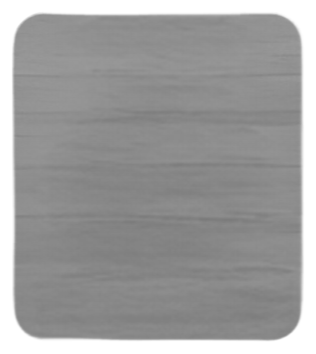
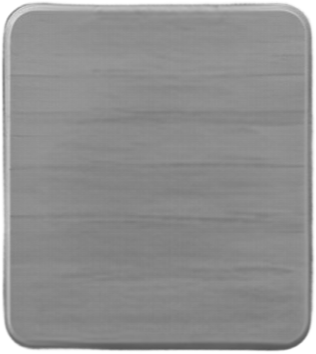
fix(beads): WXG-T-612 二轮 稿面大更新对齐（三态格底/星重导直用 + 星 gap 3）

Changed region(s): [[0.0, 0.0, 0.9968, 0.9944]]

diff --git a/games/beads/cocos/assets/scripts/game/config/tuning/level-select.ts b/games/beads/cocos/assets/scripts/game/config/tuning/level-select.ts
@@ -20,6 +20,15 @@
  * 稿 `176:67 TEXT` 烘死「1」，九格复用会写死，⛔ 不切字）；`176:21 grid-image` 69×76
  * （格内图案槽：锁定 = 稿面锁图案位图，解锁 = 程序化珠拼，三星隐藏）；
  * 关卡名字按用户令改木牌中轴居中（稿面 278 左锚 K-053 留档）。
+ *
+ * `[WXG-T-612·二轮]` 稿面 2026-11-11T02:21Z 大更新（用户令「查找 grid-button/grid-star，
+ * 看是否要重新导出资源，读取三态实现参数」）：`grid-button` 组件集三态 fill 素材**整体换新**
+ * ——浅原木纹、无矩形边框、cornerRadius 14，Highlight 的描边与内阴影已被设计者删除
+ * ⇒ 三态 = 同 imageRef `60229b73` + 纯滤镜差：Normal 无滤镜 / Highlight
+ * `exposure+0.15, contrast+0.03, saturation+0.15, highlights+0.10` / Disabled
+ * `exposure−0.10, contrast−0.015, saturation−1`。三态位图重导**直用**（⛔ 不再裁框，T-612 一轮
+ * 的腐蚀裁框随旧素材一并退场，K-053）；星换 `214:98 grid-star` 新组件集（素材重导 64×60）+
+ * gap 3；brand / lockImage / grid-image 几何逐字未变（imageLeft 44 / imageTopDown 49 / 65×35）。
  */
 export const LEVEL_SELECT_GEO = {
     /** 板标题「选关」：与详情标题同槽（中心 380,278）。 */
@@ -57,8 +66,13 @@ export const LEVEL_SELECT_GEO = {
          * ⇒ y_up 13..43、中心 **28**（`T-607` 文字档 14 偏下，K-053 旧值留档）。
          */
         starBandY: 28,
-        /** `[WXG-T-610]` 三枚星位图 32×30，净距 9，居中贴格底。 */
-        starW: 32, starH: 30, starGap: 9,
+        /**
+         * `[WXG-T-610]` 三枚星位图 32×30，居中贴格底。
+         * `[WXG-T-612·二轮]` 稿面 `214:98 grid-star` 新组件集（旧 `187:37` 已删）+ 九宫格重排
+         * `188:*`：星实例交叉实测（grid-1 / grid-9）**pitch 35 ⇒ gap 3**（旧 9 为换稿前口径，K-053）；
+         * 实例 32×30 口径不变（素材导出 64×60 @2x），bandY 28 不变。
+         */
+        starW: 32, starH: 30, starGap: 3,
         /**
          * `[WXG-T-611]` 编号牌背景（稿 `182:75 grid-brand` → `176:22`）：65×35 贴格**视觉顶**
          * （稿面 yDown 与格同 414 ⇒ 顶对齐）。数字仍 VM 程序化（稿 `176:67` 烘死「1」）。

diff --git a/games/beads/src/config/tuning/level-select.ts b/games/beads/src/config/tuning/level-select.ts
@@ -20,6 +20,15 @@
  * 稿 `176:67 TEXT` 烘死「1」，九格复用会写死，⛔ 不切字）；`176:21 grid-image` 69×76
  * （格内图案槽：锁定 = 稿面锁图案位图，解锁 = 程序化珠拼，三星隐藏）；
  * 关卡名字按用户令改木牌中轴居中（稿面 278 左锚 K-053 留档）。
+ *
+ * `[WXG-T-612·二轮]` 稿面 2026-11-11T02:21Z 大更新（用户令「查找 grid-button/grid-star，
+ * 看是否要重新导出资源，读取三态实现参数」）：`grid-button` 组件集三态 fill 素材**整体换新**
+ * ——浅原木纹、无矩形边框、cornerRadius 14，Highlight 的描边与内阴影已被设计者删除
+ * ⇒ 三态 = 同 imageRef `60229b73` + 纯滤镜差：Normal 无滤镜 / Highlight
+ * `exposure+0.15, contrast+0.03, saturation+0.15, highlights+0.10` / Disabled
+ * `exposure−0.10, contrast−0.015, saturation−1`。三态位图重导**直用**（⛔ 不再裁框，T-612 一轮
+ * 的腐蚀裁框随旧素材一并退场，K-053）；星换 `214:98 grid-star` 新组件集（素材重导 64×60）+
+ * gap 3；brand / lockImage / grid-image 几何逐字未变（imageLeft 44 / imageTopDown 49 / 65×35）。
  */
 export const LEVEL_SELECT_GEO = {
     /** 板标题「选关」：与详情标题同槽（中心 380,278）。 */
@@ -57,8 +66,13 @@ export const LEVEL_SELECT_GEO = {
          * ⇒ y_up 13..43、中心 **28**（`T-607` 文字档 14 偏下，K-053 旧值留档）。
          */
         starBandY: 28,
-        /** `[WXG-T-610]` 三枚星位图 32×30，净距 9，居中贴格底。 */
-        starW: 32, starH: 30, starGap: 9,
+        /**
+         * `[WXG-T-610]` 三枚星位图 32×30，居中贴格底。
+         * `[WXG-T-612·二轮]` 稿面 `214:98 grid-star` 新组件集（旧 `187:37` 已删）+ 九宫格重排
+         * `188:*`：星实例交叉实测（grid-1 / grid-9）**pitch 35 ⇒ gap 3**（旧 9 为换稿前口径，K-053）；
+         * 实例 32×30 口径不变（素材导出 64×60 @2x），bandY 28 不变。
+         */
+        starW: 32, starH: 30, starGap: 3,
         /**
          * `[WXG-T-611]` 编号牌背景（稿 `182:75 grid-brand` → `176:22`）：65×35 贴格**视觉顶**
          * （稿面 yDown 与格同 414 ⇒ 顶对齐）。数字仍 VM 程序化（稿 `176:67` 烘死「1」）。

diff --git a/production/TASKS.md b/production/TASKS.md
@@ -31,7 +31,7 @@
 | WXG-T-609 | 资产·关卡详情橱窗面板从 Figma `192:42` 获取并接入 | 主理人(CodeBuddy)·beads 美术/工程轨 | ✅ **完成（2026-11-10 · 用户令「关卡详情页缺少橱窗面板资源，请从 figma 上获取添加」）**。**根因**：`WXG-T-608` 新版 `95:116` 木牌把旧版烘在牌内的空橱窗拆成独立节点，稿面 `92:36` 里 **`192:42 橱窗面板`** RECTANGLE 469×638 @画布(80,398) 一直存在但从未导出（T-604 只入 4 件）。**获取**：`figma.mjs img --ids 192:42 --scale 2` ⇒ `938×1276` RGBA / 491.4 KiB，玻璃展示柜 + 射灯 + 圆台。**落码**：`LEVEL_DETAIL_GEO.showcase`（帧内 143,376 / 469×638）+ `LEVEL_DETAIL_TEXTURES.showcase`；`drawLevelDetailPage` 在木牌之后、缩略 / 星级 / 道具之前叠一条 blit（稿层序），缺图 ⇒ 不画零回归；harness `/detail-assets/` 与 carrier 注册。**资产**：设计源 `ui_detail_showcase@2x.png`（503,150 B）+ Cocos 投放件（RGBA 208,201 B，保留 68% 半透明玻璃像素、alpha 与稿面完全相同、RGB mean 2.547）；⛔ 不用 P 单透明索引（会丢玻璃）。**判据**：新增 `level-detail-showcase.test.ts` 2 例（几何同源 / 缺图零 blit）；全量 **1439 passed / 2 skipped**；金样本 11 态零影响（`level-detail` 不在覆盖态）、`verify` PASS 23 / FAIL 0。⚠ 新投放件 `.meta` 待 Cocos 编辑器签发（L1 不伪造），真机暂不叠面板 | 见详情 |
 | WXG-T-610 | UI·选关弹窗三件稿面补件（九宫格样式 / 关闭按钮 / 关卡名字控件） | 主理人(CodeBuddy)·beads 美术/工程轨 | ✅ **完成（2026-11-10 · 用户指出「Figma 选关弹窗 page 中九宫格样式没有实现，关闭按钮没有实现，关卡名字控件没有实现」）**。**稿面定位**（重取 `159:3` / `159:5` 子表）：`164:63 九宫格背板` 506×597 @(122,401)、画布外备料 `183:38/41/44` 三态格底（橙 / 亮金 / 灰）+ `187:39/41` 双星；`160:48 关闭按钮` 301×105 @(225,1028)；`159:10 关卡名字` TEXT 84×34 @(278,364) SOLID `#1A1D3F`。**落码**：7 枚 Figma @2x 切图入 `final/assets/detail/` + Cocos RGBA 投放件；`LEVEL_SELECT_GEO` 增 `tray`/`closeBtn`/`name`/`cellArt.star*`；`drawLevelSelectCell` 三态格底 + 位图三星（降级腿保留文字星 / 程序化木托盘 / 当前关描边）；`drawLevelsView` 叠背板 + 按稿名字 + 底部木质关闭钮（右上 38² 凹槽 ✕ 退场）；`levelsLayout` 关闭热区迁稿面框（绘制命中同源）；harness / carrier 注册。**判据**：几何 / 样式断言按 K-053 迁移，新增位图腿两例（三态分布 / 27 星 / 背板 / 关闭钮）；全量 **1439 passed / 2 skipped**；金样本 `level-select` 两态 sha 变、干净锚重抓，其余九态逐字未动；`verify` PASS 23 / FAIL 0。⚠ 7 枚新投放件 `.meta` 待编辑器签发（L1 不伪造），真机暂走降级腿 | 见详情 |
 | WXG-T-611 | UI·选关页六项修正（名字居中/高亮无框/grid-brand/锁格图案/去锁徽章） | 主理人(CodeBuddy)·beads 美术/工程轨 | ✅ **完成（2026-11-11 · 用户六项令：名字居中显示 / 高亮态就是高亮图不加框 / 关数面板读 grid-brand 文字与背景 / 锁关展示 grid-image 图案并隐藏三星 / 解锁格 grid-image 展示程序化图案 / 单独锁图案去掉）**。**稿面定位**：`176:22 grid-brand background` 65×35（贴格视觉顶）+ `176:21 grid-image` 69×76（格内 x=44 / 距视觉顶 49 = 图案槽）。**落码**：2 枚 @2x 切图（130×70 / 138×152）+ `ship()` RGBA 投放件；`LEVEL_SELECT_TEXTURES` 增 `brand` / `lockImage`；编号牌背景读稿面资源（数字仍 VM 程序化——稿 `176:67` 烘死「1」，九格复用会写死）；锁定格（含越界槽）= 图案槽 blit 锁图 + **三星隐藏**；解锁格 = `drawLevelThumb` 珠拼落槽位（area=69）；名字改木牌中轴 380 居中；降级腿当前关改亮金内窗（`plateSubInk`）⇒ 黄铜描边退场；`drawWallLockBadge` 选关调用两处删除（走马灯/旧墙腿保留）。**判据**：六个测试文件按 K-053 迁移；全量 **1440 passed / 2 skipped**；金样本 `level-select` 两态重抓；`verify` PASS 23 / FAIL 0。⚠ 2 枚新投放件 `.meta` 待编辑器签发（L1 不伪造） | 见详情 |
-| WXG-T-612 | UI·三态格底裁框 + 右上✕回归 + 两弹框背景/✕绘制共用 | 主理人(CodeBuddy)·beads 美术/工程轨 | ✅ **完成（2026-11-11 · 用户三令：①「背景板有三态展示 normal highlight disabled，已经不需要那个矩形边框，应该删除」（追问方法后裁框）②「选关面板右上角有个叉按钮需要加上」③「选关和关卡详情弹框关于背景框绘制和右上角叉按钮绘制需要共用逻辑」）**。**外框归因**：稿面三态格底 = **同一 IMAGE ref**（`60229b73…`）+ Figma 滤镜差（高亮 exposure+0.15）⇒ 框烘在图里且被提亮成金棕；角区另有独立亮角残片。**裁框**：Figma 重导三态原图 → alpha 通道 MinFilter(21) 形态学腐蚀内缩 10px（直边框带/弧带亮边/角残片统一清除，圆角自然）+ 2px 直边羽化 → 正本覆盖 + `ship()` 投放件重出（normal 29.6K / current 25.1K / locked 13.1K，体积反降）；blit 命令流不变 ⇒ **金样本零影响**。**✕ 回归**：`levelsLayout` 恢复右上 ✕ 热区（`LEVEL_DETAIL_GEO.close` 同槽 + `dialogShiftY`，88²）⇒ `close-levels` 双出口（底部木质钮保留）；`drawLevelsView` 调共用 `drawCloseInset`（`vm.closePressed` 按下态）。**共用**：抽 `meta-widgets::drawModalPlate`（遮罩 + 木牌 blit/纸面板回退），选关/详情两页各一行替换（命令流逐字不变）。**判据**：`arc-level-select-page` 增 ✕ 命中 (622,1121) + 双出口断言；全量 **1440 passed / 2 skipped**；金样本 `level-select` 两态重抓（+7 ✕ 命令）；`verify` PASS 23 / FAIL 0。⚠ 3 枚重出投放件 `.meta` 沿用在册（尺寸不变无需重签） | 见详情 |
+| WXG-T-612 | UI·三态格底裁框 + 右上✕回归 + 两弹框背景/✕绘制共用 | 主理人(CodeBuddy)·beads 美术/工程轨 | ✅ **完成（2026-11-11 · 用户三令：①「背景板有三态展示 normal highlight disabled，已经不需要那个矩形边框，应该删除」（追问方法后裁框）②「选关面板右上角有个叉按钮需要加上」③「选关和关卡详情弹框关于背景框绘制和右上角叉按钮绘制需要共用逻辑」）**。**外框归因**：稿面三态格底 = **同一 IMAGE ref**（`60229b73…`）+ Figma 滤镜差（高亮 exposure+0.15）⇒ 框烘在图里且被提亮成金棕；角区另有独立亮角残片。**裁框**：Figma 重导三态原图 → alpha 通道 MinFilter(21) 形态学腐蚀内缩 10px（直边框带/弧带亮边/角残片统一清除，圆角自然）+ 2px 直边羽化 → 正本覆盖 + `ship()` 投放件重出（normal 29.6K / current 25.1K / locked 13.1K，体积反降）；blit 命令流不变 ⇒ **金样本零影响**。**✕ 回归**：`levelsLayout` 恢复右上 ✕ 热区（`LEVEL_DETAIL_GEO.close` 同槽 + `dialogShiftY`，88²）⇒ `close-levels` 双出口（底部木质钮保留）；`drawLevelsView` 调共用 `drawCloseInset`（`vm.closePressed` 按下态）。**共用**：抽 `meta-widgets::drawModalPlate`（遮罩 + 木牌 blit/纸面板回退），选关/详情两页各一行替换（命令流逐字不变）。**判据**：`arc-level-select-page` 增 ✕ 命中 (622,1121) + 双出口断言；全量 **1440 passed / 2 skipped**；金样本 `level-select` 两态重抓（+7 ✕ 命令）；`verify` PASS 23 / FAIL 0。⚠ 3 枚重出投放件 `.meta` 沿用在册（尺寸不变无需重签）。**二轮（2026-11-11 · 用户判「grid 背景板还是不对」+ 令查 `grid-button`/`grid-star` 重导与三态参数）**：稿面 02:21Z 大更新——`grid-button` 三态 fill 素材整体换新（浅原木纹**无框**圆角 14、Highlight 描边/内阴影已删 ⇒ 三态 = 同 imageRef + 纯滤镜差）⇒ 三态位图重导直用（一轮腐蚀裁框随旧素材退场）；星换 `214:98` 新组件集（64×60）+ **gap 9→3**（pitch 35 交叉实测）；brand/grid-image/lockImage 几何逐字未变；全量 **1442 passed**；金样本两态重抓（星位漂移） | 见详情 |
 | WXG-T-605 | 工具链·MiniMax-H3 文生视频工作流（内网 ComfyUI） | 主理人(Qoder)·工具链 | ✅ **完成（2026-11-09 · 用户令「本地配置 minimax h3 的大模型服务，制定文生视频工作流并验证」）**。**环境**：`192.168.1.16:8188`（Windows · RTX 2080 Ti 11GB · ComfyUI 0.40.0），已有 H3 GGUF 主干 / qwen3vl-32b 编码器 / 视频+音频 VAE / 8-step turbo LoRA。**交付**：`tools/scripts/minimax-h3-t2v.py`（标准库：probe / dry-run / 提交 / 轮询 / 下载 / FLAC+MP4 本地合轨；`--loader safetensors` 可切官方 int8）+ `tools/scripts/README-minimax-h3.md`。**验证**：链路 7 轮全通（116–498s/轮），但第三方 `MiniMax-H3-FL2VA-Pruned-Q3_K_M.gguf` 输出纯黑 + 饱和音频；已排除 VAE（往返 7485 色 / std 73）、文本编码器（GPU/CPU）、注意力后端、steps、分辨率、提示词。**阻塞**：换 Comfy-Org 官方 `minimax_h3_fl2va_pruned_int8_convrot.safetensors`（~19.5GB，需用户在 Windows 侧下载）；若仍黑则为 2080Ti 无原生 bf16 的精度墙。 | 见详情 |
 | WXG-T-604 | UI·关卡详情弹窗按 Figma 92:36 重排 + 单源规格 | 主理人(Trae)·beads UI轨 | ✅ **完成（2026-11-08 · 用户令「从 figma 读取关卡详情页 Page 的所有数据，重新整理关卡详情页 UI 设计」）**。**稿面全量回读**：Figma `PBIK3RbfGlfzFsAnd97ZsP` 页 `84:36` 帧 `92:36` 22KB 节点树 + 7 件 @2x 切图；复核重取一遍零漂移。**旧版 → 稿面**：纸面板 600×720 → 木牌 581×1044@(89,166)；道具 3×84 净距 36→9、角标从右下圆点改**右上 24² r8 贴边**；文字星 `★★☆` → 位图星 3×58×60；双钮行 → 单「开始」326×154（出口另补，见关闭交互）。**落码**：新 `config/tuning/level-detail.ts`（几何 + 纹理 id 单源，y 下锚点）、`meta-level-detail-page.ts` 自持版式（退 `panelPage`）、`meta-layout` 热区、shell 投影 `detailChapterTitle`。**资产**：4 件 Figma 切图入 `final/assets/detail/`（911+284+9+9 KB）+ Cocos 量化投放件 147 KB（主包 3.0 MB，红线 4 MB）。**核对揪出**：时限文字按 22 档居中会压第三枚星 ⇒ 改稿面左缘锚 x=482。**阴影回读（11-09 用户指出）**：`figma.mjs` 的 `slim()` 漏留 `effects` ⇒ 补留后取回 `95:59` 两枚内阴影 + 投影（`#5A2F0D` α0.80 +9,+7 blur3）；**最小契约** `TextCommand.shadow` + 三处渲染器（Canvas 原生含 blur / Cocos 双 Label / SVG 双 text），内阴影登记不实现（规格 §4.1）。**关闭交互（11-09 用户令）**：删「返回」，改木牌右上角框内 **38² 深实底凹槽**（3px 框槽、无内壁阴影、米白 ✕，零位图，刚好盖住角铆钉）；点牌外空白用四条贴边带关闭（牌内空白不关）；`close-detail` / `dismiss-detail` 与 `back` 同语义。**取证**：headless Chrome 真页面截图（`temp/detail-shot/detail-live.png`）目视通过；单测 6/6（流程 + 几何不变式 + 回退/位图双绘制腿）；`pnpm run verify` **PASS 23 / FAIL 0 / SKIP 0**；`check:links` OK。⚠ 未闭：Cocos 编辑器导入四枚 PNG 生成 `.meta`（无可写编辑器产物） | 见详情 · kb:sync 沉淀统计 新增0/修改0/激活0/归档0 |
 | WXG-T-599 | 美术·木牌字号按稿归一缩档（34 / 22 / 胶囊 27） | 主理人(CodeBuddy)·美术/UI轨 | ✅ **完成（2026-11-07 · 用户令「相比设计稿，现在字号有点大」→ 选甲「两行都缩」）**。**根因是量尺**：上一批（`WXG-T-597`）拿「稿像素」直接对「设计像素」，没做同尺归一。本批以胶囊宽为尺（稿 172 ↔ 线上 130 ⇒ 1.32 倍；铆钉净宽 328 ↔ 245 独立同得 1.34）归一后：关名墨高稿 39 ≈ **29.5 设计 px**，而 40px 粗体墨高 ≈35 ⇒ 比稿大 **19%**；次行墨稿 23 ≈ 17.4，而 28px 粗体墨高 ≈24.6 ⇒ 大 **41%**；胶囊 33 vs 稿 25 ⇒ 厚 **32%**。**落码**：关名 40→**34**（新增字型值，`UI_FONT.plateTitle`）、次行 28→**22**（**新增令牌 `UI_FONT.plateSub`** —— 不复用 `labelBold`，那档是资源条数值专用）、胶囊 `130×33`→**`130×27`**（`22×0.88/0.72 = 26.9`，实得 0.72 与稿一致）。**「第二行不得低于 28」的地板同时松绑**：该地板的原始理由只是「22px 落普通文本档需 4.5:1，而旧木牌色只有 3.60:1」；换令牌后次行墨压胶囊 = **4.61:1** ✓，22px 也过 4.5 ⇒ 地板不再挡路（关名 34 仍属大字号档，门 3:1，实得 5.38 ✓）。层级 1.43→**1.55**（稿 1.70）。**验证**：`menu-plate-title` 守卫改守「次行 = plateSub 22 粗、胶囊 h 27、关名 = plateTitle 34」，并发觉旧守卫那句「⛔ 回退 22 档」正是本轮要走的档 ⇒ 改为守「⛔ 退回 labelBold 28（会把牌撑大）」。视觉变更登记见 `ui-architecture-beads §12` | 见详情 |

diff --git a/ctx/BUDGET.md b/ctx/BUDGET.md
@@ -22,12 +22,12 @@
 
 | # | 文件 | tokens | 行数 | tier |
 |---:|---|---:|---:|:--:|
-| 1 | `production/TASKS-DETAIL.md` | 264633 | 9332 | normal |
+| 1 | `production/TASKS-DETAIL.md` | 265537 | 9347 | normal |
 | 2 | `games/beads/design/gdd/powerups-v2.md` | 154839 | 2359 | normal |
 | 3 | `games/beads/design/art/specs/assets-spec.md` | 121820 | 2109 | normal |
 | 4 | `production/qa/beads/g4-regression-report.md` | 86807 | 2201 | normal |
 | 5 | `games/beads/design/ux/ux-spec.md` | 62587 | 590 | normal |
-| 6 | `production/TASKS.md` | 60459 | 219 | hot |
+| 6 | `production/TASKS.md` | 60637 | 219 | hot |
 | 7 | `games/beads/design/gdd/systems-index-changelog.md` | 53260 | 109 | normal |
 | 8 | `docs/architecture/adr/ADR-0030-beads-cocos-production-blit-carrier.md` | 45150 | 1307 | normal |
 | 9 | `games/beads/design/proposals/bead-visual-style-spec.md` | 43650 | 1206 | normal |
@@ -37,7 +37,7 @@
 | 13 | `games/beads/design/art/proposals/ui-style-redesign/menu-architecture.md` | 38455 | 996 | normal |
 | 14 | `games/beads/design/art/specs/art-bible.md` | 38368 | 530 | normal |
 | 15 | `games/beads/design/art/specs/accessibility.md` | 37140 | 201 | normal |
-| 16 | `docs/architecture/ui-architecture-beads.md` | 30868 | 292 | normal |
+| 16 | `docs/architecture/ui-architecture-beads.md` | 31168 | 294 | normal |
 | 17 | `memory/2026-10-04.md` | 28255 | 930 | normal |
 | 18 | `games/beads/design/gdd/save-progress.md` | 26135 | 305 | normal |
 | 19 | `games/beads/design/proposals/star-economy-and-retention.md` | 22195 | 763 | normal |
@@ -49,7 +49,7 @@
 
 | 文件 | tokens | 类别 · 上限 | 处置 |
 |---|---:|---:|:--:|
-| `production/TASKS-DETAIL.md` | 264633 | tasksDetail · 205000 | 见 `ctx/budget-exempt.json`（无豁免则 ❌ 需报告主理人） |
+| `production/TASKS-DETAIL.md` | 265537 | tasksDetail · 205000 | 见 `ctx/budget-exempt.json`（无豁免则 ❌ 需报告主理人） |
 | `games/beads/design/gdd/powerups-v2.md` | 154839 | spec · 8000 | 见 `ctx/budget-exempt.json`（无豁免则 ❌ 需报告主理人） |
 | `games/beads/design/art/specs/assets-spec.md` | 121820 | spec · 8000 | 见 `ctx/budget-exempt.json`（无豁免则 ❌ 需报告主理人） |
 | `production/qa/beads/g4-regression-report.md` | 86807 | ledger · 16000 | 见 `ctx/budget-exempt.json`（无豁免则 ❌ 需报告主理人） |
@@ -63,7 +63,7 @@
 | `games/beads/design/art/proposals/ui-style-redesign/menu-architecture.md` | 38455 | spec · 8000 | 见 `ctx/budget-exempt.json`（无豁免则 ❌ 需报告主理人） |
 | `games/beads/design/art/specs/art-bible.md` | 38368 | spec · 8000 | 见 `ctx/budget-exempt.json`（无豁免则 ❌ 需报告主理人） |
 | `games/beads/design/art/specs/accessibility.md` | 37140 | spec · 8000 | 见 `ctx/budget-exempt.json`（无豁免则 ❌ 需报告主理人） |
-| `docs/architecture/ui-architecture-beads.md` | 30868 | spec · 8000 | 见 `ctx/budget-exempt.json`（无豁免则 ❌ 需报告主理人） |
+| `docs/architecture/ui-architecture-beads.md` | 31168 | spec · 8000 | 见 `ctx/budget-exempt.json`（无豁免则 ❌ 需报告主理人） |
 | `memory/2026-10-04.md` | 28255 | spec · 8000 | 见 `ctx/budget-exempt.json`（无豁免则 ❌ 需报告主理人） |
 | `games/beads/design/gdd/save-progress.md` | 26135 | spec · 8000 | 见 `ctx/budget-exempt.json`（无豁免则 ❌ 需报告主理人） |
 | `games/beads/design/proposals/star-economy-and-retention.md` | 22195 | spec · 8000 | 见 `ctx/budget-exempt.json`（无豁免则 ❌ 需报告主理人） |

diff --git a/docs/architecture/ui-architecture-beads.md b/docs/architecture/ui-architecture-beads.md
@@ -283,6 +283,8 @@ games/beads/src/ui/
 
 **视觉变更登记（2026-11-11 · WXG-T-612 · 三态格底裁框 + 右上 ✕ 回归 + 两弹框绘制共用）**：用户三令（①三态格底矩形边框删除——追问方法后裁框 ②选关面板右上角加 ✕ ③两弹框背景框/✕ 绘制共用逻辑）。**外框归因**：稿面三态格底 = 同一 IMAGE ref（`60229b73…`）+ Figma 滤镜差（高亮 exposure+0.15）⇒ 框烘在图里且被高亮滤镜提亮成金棕。**裁框**：Figma 重导三态原图 → alpha 通道 `MinFilter(21)` 形态学腐蚀内缩 10px（直边框带 / 弧带亮边 / 独立角残片统一清除）+ 2px 羽化 → 正本覆盖 + `ship()` 投放件重出（体积反降 39%）；blit 命令流不变 ⇒ 金样本零影响。**✕ 回归**：`levelsLayout` 追加第二个 `close-levels` 热区（`LEVEL_DETAIL_GEO.close` 同槽 88²）⇒ 双出口（底部木质钮保留）；`drawLevelsView` 调共用 `drawCloseInset`（`vm.closePressed`）。**共用**：新增 `meta-widgets::drawModalPlate`（遮罩 + 木牌 blit/纸面板回退）——选关 / 详情两页各一行替换，命令流逐字不变。**判据**：`arc-level-select-page` 增 ✕ 命中 (622,1121) + 双出口断言。**金样本**：`level-select` 两态 `total` 1892→1899（`drawCloseInset` 七命令），干净锚重抓；其余九态逐字未动。
 
+**视觉变更登记（2026-11-11 · WXG-T-612 二轮 · 稿面大更新对齐）**：用户判「grid 背景板还是不对」并令查 `grid-button`/`grid-star` 重导与三态参数。稿面 `02:21Z` 更新（version 2420417666193727745）：① `grid-button` 三态 fill 素材整体换新（浅原木纹无框圆角 14、Highlight 描边/内阴影已删 ⇒ 三态 = 同 imageRef + 纯滤镜差 Normal/`exposure+0.15…`/`saturation−1`）⇒ 三态位图重导直用、一轮腐蚀裁框退场（K-053）；② 星换 `214:98 grid-star` 新组件集（64×60，旧 `187:37` 已删）+ **gap 9→3**（pitch 35 双格交叉实测）；③ 九宫格重排 `188:*` 四件套，grid-image/brand/lockImage 几何逐字未变，当前关语义映射不变（grid-4=Highlight ⇒ current/locked/else 照旧）。**落码**：五枚位图正本替换 + `ship()` 重出；`tuning` 仅 `starGap 9→3` + 头注参数表；代码其余零改动。金样本两态重抓（星位漂移）；全量 **1442 passed**。
+
 **关键路径**：UI-00 → UI-01 → UI-10…14 → UI-20 → UI-22 / UI-25 → UI-30 → UI-31 → UI-41 → UI-42 → UI-50 → UI-53。UI-02（金样本）与 P1 可并行，但必须在 UI-30 前完成。
 
 > **[WXG-T-473] 金样本复评登记（2026-10-28）**：`copy-tokens.ts::version_label` 发布文案变更（`v1.x · 演示版` → `v1.0.0 · 演示版`，T-469 USER 版本号裁定「首发 1.0.x、x = build 号」）⇒ Meta 四屏（main-menu / level-select-mid / settings / signin）底部版本行文本变 ⇒ 整帧 sha 漂移（total / 种类数零变，纯文本内容）。复取器两遍确定性自证 PASS，夹具 `capturedFrom` = `2fbe8e4d`；对拍 **13/13 绿**。复取说明：工作树 src 面与 HEAD 零差异（dirty 仅 docs 台账两件），主树复取等价干净检出（K-167 精神，注记披露）。

diff --git a/ctx/hot-files.md b/ctx/hot-files.md
@@ -25,7 +25,7 @@
 
 §wechatgame 项目长期笔记=1+83 · §日志蒸馏规程（R2 · WXG-T-0…=7+6 · §项目约定=13+22 · §常用脚本=35+11 · §SubAgent=46+4 · §Rules=50+3 · §Hooks=53+7 · §Headless / CI=60+8 · §已知限制=68+16
 
-## `production/TASKS.md` — 219 行 / 60459 tok / 实测读 4 次
+## `production/TASKS.md` — 219 行 / 60637 tok / 实测读 4 次
 
 §WXG 任务台账（SSOT）=1+220 · §待排（backlog，无号，立项时领取…=192+29
 
@@ -103,10 +103,10 @@
 §knowledge/ — 工作室知识库…=1+323 · §1 读取协议（开发前期）=7+10 · §2 写入协议（任务收尾）=17+28 · §3 文件分工=45+10 · §4 维护=55+12 · §5 生命周期（访问记账 → 归档 → …=67+41 · §6 活跃条目（自动生成）=108+216
 > 本表只列 7 / 11 节：其余 4 节 → ctx/index.json（按 path 取 `sections[].anchor` / `startLine`，勿整读）。
 
-## `production/TASKS-DETAIL.md` — 9332 行 / 264633 tok
+## `production/TASKS-DETAIL.md` — 9347 行 / 265537 tok
 
-§WXG 任务台账 · 详情（标题制正文…=1+9333 · §WXG-T-601=9101+29 · §WXG-T-602=9130+17 · §WXG-T-603=9147+14 · §WXG-T-604=9161+20 · §WXG-T-605=9181+13 · §WXG-T-606=9194+30 · §WXG-T-607=9224+22 · §WXG-T-608=9246+24 · §WXG-T-609=9270+14 · §WXG-T-610=9284+19 · §WXG-T-611=9303+17 · §WXG-T-612=9320+14
-> 本表只列 13 / 1034 节：其余 1021 节 → ctx/index.json（按 path 取 `sections[].anchor` / `startLine`，勿整读）。
+§WXG 任务台账 · 详情（标题制正文…=1+9348 · §WXG-T-601=9101+29 · §WXG-T-602=9130+17 · §WXG-T-603=9147+14 · §WXG-T-604=9161+20 · §WXG-T-605=9181+13 · §WXG-T-606=9194+30 · §WXG-T-607=9224+22 · §WXG-T-608=9246+24 · §WXG-T-609=9270+14 · §WXG-T-610=9284+19 · §WXG-T-611=9303+17 · §WXG-T-612=9320+29
+> 本表只列 13 / 1035 节：其余 1022 节 → ctx/index.json（按 path 取 `sections[].anchor` / `startLine`，勿整读）。
 
 ## `games/breakout/design/concept.md` — 143 行 / 3113 tok / 实测读 217 次
 
